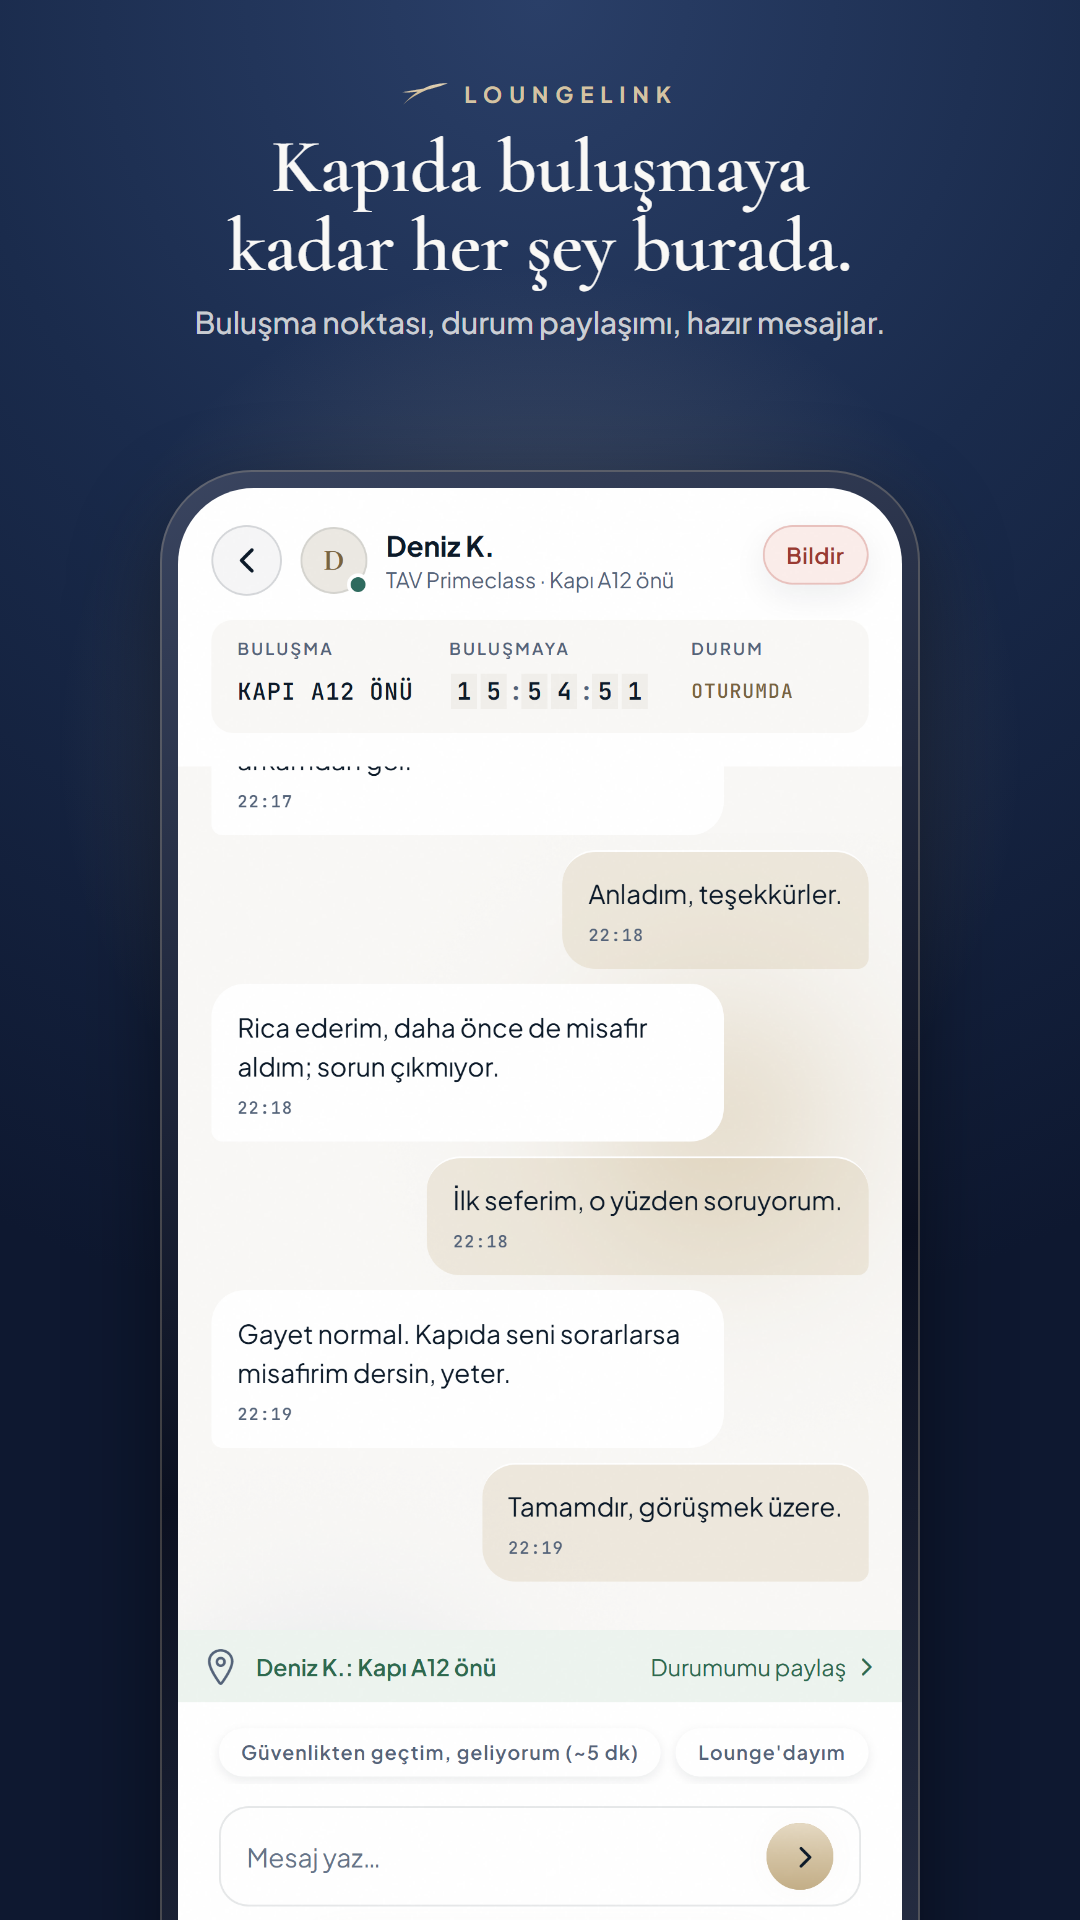
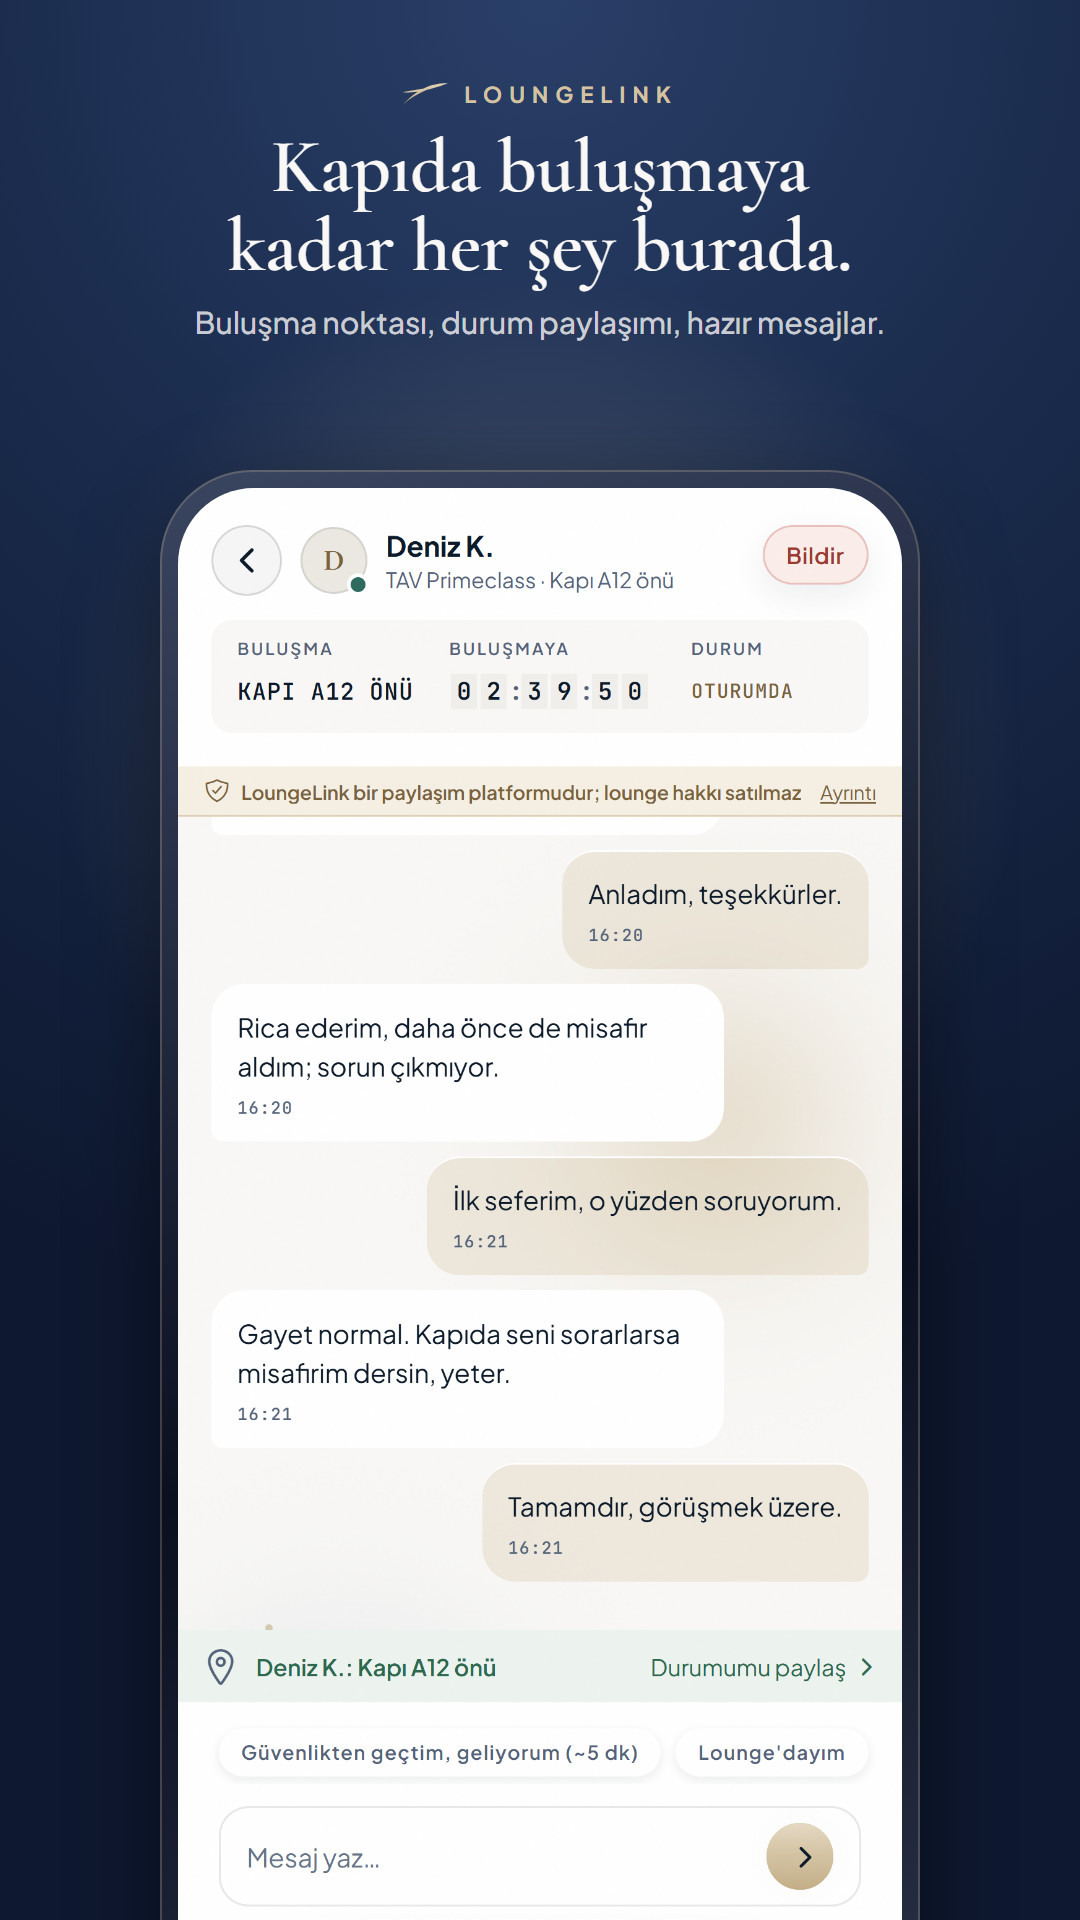
app 1.0.0: 'lounge girisi' yerine 'ilan basvurusu' (SQL 341, i18n TR+EN); sohbetlerde katlanir paylasim seridi; magaza kareleri yeniden

Changed region(s): [[0.1833, 0.3438, 0.7333, 0.4375], [0.7639, 0.4062, 0.825, 0.4375]]

diff --git a/rnapp/src/i18n.js b/rnapp/src/i18n.js
@@ -439,7 +439,7 @@ export const D = {
     // ana sayfa bölgeleri
     // madde 1 — kredi paketleri
     walletPacksIntro: "Paketler üyeliğin yerine geçmez; plan kredin bittiğinde tek seferlik ek haktır.",
-    walletPackCredits: "{n} lounge isteği",
+    walletPackCredits: "{n} ilan başvurusu",
     walletPerCredit: "kredi başına {n} ₺",
     walletSubHint: "Düzenli seyahat ediyorsan {plan} planı aylık {fiyat} ₺ ile {kredi} kredi veriyor — kredi başına {birim} ₺. Paketler bilerek daha pahalı: tek seferlik ihtiyaç içindir.",
     // madde 14
@@ -1686,8 +1686,15 @@ export const D = {
     confirmDone: "Tamamlandığını Onayla ✓",
     sessDone: "Oturum tamamlandı",
     submitRating: "Puanı Gönder →",
-    // 24 Ekim (Gökberk) — emir kipi yerine davet: aynı üç kural, daha sıcak bir dille.
-    safetyBar: "Burada misafirlik paylaşılır, satılmaz · Ödeme konuşulmaz · Salon ve havayolu kuralları her zaman geçerli",
+    // 24 Ekim (Gökberk) — Paylaşım şeridi: kapalıyken tek satır, dokununca üç madde (ortak.js PaylasimSeridi).
+    paylasimKisa: "LoungeLink bir paylaşım platformudur; lounge hakkı satılmaz",
+    paylasimDetay: "Ayrıntı",
+    paylasimKapat: "Kapat",
+    paylasimMaddeler: [
+      "LoungeLink, misafirlik hakkının paylaşıldığı bir platformdur; lounge erişimi burada satılmaz, satın alınmaz.",
+      "Lounge hakkı satışı ya da platform dışı ödeme teklifi gelirse kabul etme; Bildir'e dokunman yeterli.",
+      "Salonun ve havayolunun kuralları her zaman geçerlidir; kapıdaki son söz salonundur.",
+    ],
     verifyPhone: "Telefonu Doğrula",
     // 18 Ekim — telefon doğrulama sayfası (src/telefon.js · SQL 335)
     tvKayitEtiket: "HESABIN HAZIR · SON ADIM",
@@ -2195,9 +2202,10 @@ export const D = {
     chatNudgeDismiss: "Kapat",
     ledPlanExpire: "Kullanılmayan aylık plan kredisi",
     planNoRollover: "Aylık plan kredisi bir sonraki aya devretmez. Satın aldığın paket kredisi ve ağırlayarak kazandığın kredi süresizdir.",
-    planVisitsMonth: "Ayda {n} lounge girişi",
-    planPerVisit: "giriş başına ≈ {p}",
-    planFreeCredit: "Kayıtta 1 kredi: ilk lounge girişin bizden",
+    // 25 Ekim (Gökberk) — "lounge girişi" giriş hakkı satılıyor gibi okunuyordu; kredi bir ilana BAŞVURMA hakkıdır.
+    planVisitsMonth: "Ayda {n} ilan başvurusu",
+    planPerVisit: "başvuru başına ≈ {p}",
+    planFreeCredit: "Kayıtta 1 kredi: ilk ilan başvurun bizden",
     // 15 Ekim (SQL 332) — mağaza ödemesi (RevenueCat)
     odemeSatinAl: "Satın al",
     odemeIsleniyor: "Ödemen alındı, hesabına işleniyor…",
@@ -2974,7 +2982,7 @@ export const D = {
     connAwaiting: "Waiting for a reply.",
     connDeclinedNote: "This request was declined.",
     walletPacksIntro: "Packs don't replace a membership; they're a one-off top-up when your plan credits run out.",
-    walletPackCredits: "{n} lounge request(s)",
+    walletPackCredits: "{n} listing request(s)",
     walletPerCredit: "{n} TRY per credit",
     walletSubHint: "If you travel often, the {plan} plan gives {kredi} credits for {fiyat} TRY a month — {birim} TRY per credit. Packs are deliberately pricier: they're for one-off needs.",
     editAirportLocked: "The airport can't be changed — open a new listing for a different airport.",
@@ -3987,7 +3995,14 @@ export const D = {
     confirmDone: "Confirm Completed ✓",
     sessDone: "Session completed",
     submitRating: "Submit Rating →",
-    safetyBar: "Guest passes are shared here, never sold · No payments · Lounge and airline rules always apply",
+    paylasimKisa: "LoungeLink is a sharing platform; lounge access is never sold",
+    paylasimDetay: "Details",
+    paylasimKapat: "Close",
+    paylasimMaddeler: [
+      "LoungeLink is a platform for sharing guest allowances; lounge access is never sold or bought here.",
+      "If someone offers to sell access or asks for payment outside the app, decline and tap Report.",
+      "Lounge and airline rules always apply; the lounge has the final say at the door.",
+    ],
     verifyPhone: "Verify Phone",
     tvKayitEtiket: "ACCOUNT READY · LAST STEP",
     tvTelEtiket: "PHONE",
@@ -4427,9 +4442,9 @@ export const D = {
     chatNudgeDismiss: "Dismiss",
     ledPlanExpire: "Unused monthly plan credits",
     planNoRollover: "Monthly plan credits don't roll over to the next month. Credits you buy in packs or earn by hosting never expire.",
-    planVisitsMonth: "{n} lounge visits a month",
-    planPerVisit: "≈ {p} per visit",
-    planFreeCredit: "1 credit on sign-up: your first lounge visit is on us",
+    planVisitsMonth: "{n} listing requests a month",
+    planPerVisit: "≈ {p} per request",
+    planFreeCredit: "1 credit on sign-up: your first listing request is on us",
     odemeSatinAl: "Buy",
     odemeIsleniyor: "Payment received, adding it to your account…",
     odemeKrediYuklendi: "{n} credits added to your wallet.",

diff --git a/rnapp/src/ekranlar_yalin.js b/rnapp/src/ekranlar_yalin.js
@@ -40,7 +40,7 @@ import AsyncStorage from "@react-native-async-storage/async-storage";
 import { AppState, ActivityIndicator, BackHandler, FlatList, Image, Keyboard, Linking, Modal, Platform, ScrollView, StyleSheet, Text, TextInput, TouchableOpacity, View } from "react-native";
 import { BinisKartiPanel } from "./BinisKarti";
 import { kuyrugaAkit, kuyrugaBak, kuyrukDinle, kuyruguYenidenDene, mesajKuyruga, onbellegeYaz, onbellektenOku } from "./cevrimdisi";
-import { ACCESS_SOURCES, erisimKaynaklari, erisimEtiketi, AMENITY_ICONS, AMENITY_TR, AirportPicker, Load, PROF_KEYS, Pill, REPORT_TYPES, ReqStateBadge, reqDurumOgesi, ustIsik, S, Sayac, TR_DAYS, TR_MONTHS, VenuePrices, _DTP, abbrevName, dateOk, geriSayim, getProfileCompletion, intentLabel, isoOf, zamanKisa, useAkisGoruldu, yeniMi, LoadFailPage } from "./ortak";
+import { ACCESS_SOURCES, erisimKaynaklari, erisimEtiketi, AMENITY_ICONS, AMENITY_TR, AirportPicker, Load, PROF_KEYS, Pill, REPORT_TYPES, ReqStateBadge, reqDurumOgesi, ustIsik, S, Sayac, TR_DAYS, TR_MONTHS, VenuePrices, _DTP, abbrevName, dateOk, geriSayim, getProfileCompletion, intentLabel, isoOf, zamanKisa, useAkisGoruldu, yeniMi, LoadFailPage, PaylasimSeridi } from "./ortak";
 import { Ikon, IkonMetin, BilgiRozeti } from "./ikon";
 import { KalkisHalkasi, TakimyildizPuan, GeceKarti } from "./hareket";
 import { VitrinKarti, MiniErken, MiniFiyat, IndirimBandi, bantMetni } from "./odul_magaza";
@@ -1579,11 +1579,7 @@ export function Chat({ t, session, request, otherName, onBack, onSafety, onRefer
       {/* 24 Ekim (Gökberk) — LOUNGE SOHBETİNDE SATIŞ/ÖDEME UYARISI YOKTU. `safetyBar` yalnız Tanış
           sohbetindeydi (CompanionChat); asıl risk — "hakkını sat / dışarıdan öde" teklifi — bu sohbette.
           Aynı şerit, aynı metin (TR+EN hazır). Klavye açıkken yer kaplamasın diye gizlenir. */}
-      {!klavye && (
-        <View accessibilityRole="text" style={{ backgroundColor: C.goldTint, paddingVertical: ARA[6], paddingHorizontal: ARA[14] }}>
-          <Text style={{ color: C.goldInk, fontSize: FS.xs, textAlign: "center" }}>{t.safetyBar}</Text>
-        </View>
-      )}
+      {!klavye && <PaylasimSeridi t={t} />}
       {/* Mesajlar — tasarım: ilk balon 150pt'te (132 + 18) */}
       <ScrollView style={{ flex: 1 }} contentContainerStyle={{ padding: ARA[18] }}
         /* ══════════════════════════════════════════════════════════

diff --git a/rnapp/src/ekranlar_ana.js b/rnapp/src/ekranlar_ana.js
@@ -44,7 +44,7 @@ import * as Clipboard from "expo-clipboard";
 import React, { useCallback, useEffect, useRef, useState, useMemo} from "react";
 import { ActivityIndicator, BackHandler, Image, Linking, Modal, Platform, ScrollView, Share, StyleSheet, Text, TextInput, TouchableOpacity, View } from "react-native";
 import { Amenities, BaglantiIstekleri, Chat, DateInput, HaberVer, LiveStatus, Picker, Plans, ProfileCompletionWidget, ReportUser, RequestsPanel, VerifyPhone, profOpts, timeOk } from "./ekranlar_yalin";
-import { ucusNo, ustIsik, ACCESS_SOURCES, erisimKaynaklari, erisimEtiketi, AirportPicker, CarrierChip, FieldReportPrompt, LANG_OPTS, LegalDoc, Load, PURPOSES, Pill, PromiseBox, RefCodeEntry, ReqStateBadge, S, SECTOR_OPTS, Sayac, TrustRing, VenuePrices, _DTP, abbrevName, dateOk, geriSayim, getProfileCompletion, greeting, intentLabel, pickAndUploadPhoto, useAkisGoruldu, yeniMi, LoadFailPage } from "./ortak";
+import { ucusNo, ustIsik, ACCESS_SOURCES, erisimKaynaklari, erisimEtiketi, AirportPicker, CarrierChip, FieldReportPrompt, LANG_OPTS, LegalDoc, Load, PURPOSES, Pill, PromiseBox, RefCodeEntry, ReqStateBadge, S, SECTOR_OPTS, Sayac, TrustRing, VenuePrices, _DTP, abbrevName, dateOk, geriSayim, getProfileCompletion, greeting, intentLabel, pickAndUploadPhoto, useAkisGoruldu, yeniMi, LoadFailPage, PaylasimSeridi } from "./ortak";
 import { Ikon, IkonMetin, BilgiRozeti } from "./ikon";
 import { yerelGun } from "./zaman";
 
@@ -3636,9 +3636,7 @@ export function CompanionChat({ t, session, channelId, otherName, onBack, onOpen
           </View>
         </TouchableOpacity>
       )}
-      <View style={{ backgroundColor: C.goldTint, paddingVertical: ARA[6], paddingHorizontal: ARA[14] }}>
-        <Text style={{ color: C.goldInk, fontSize: FS.xs, textAlign: "center" }}>{t.safetyBar}</Text>
-      </View>
+      <PaylasimSeridi t={t} />
       {/* 16 Ekim (SQL 334) — LOUNGE YÖNLENDİRMESİ. Sohbette birlikte lounge'a girme konuşulursa
           resmi yol hatırlatılır: misafire iade güvencesi, host'a kredi + puan + Sık Uçan hediyesi.
           Konuşmayı ENGELLEMEZ; kapatılabilir ve kanal başına bir kez kapatılınca bir daha çıkmaz. */}

diff --git a/rnapp/src/ortak.js b/rnapp/src/ortak.js
@@ -1483,3 +1483,33 @@ export function YasOnayi({ t }) {
     </View>
   );
 }
+
+// 24 Ekim (Gökberk) — PAYLAŞIM ŞERİDİ (lounge sohbeti + Tanış sohbeti).
+// Kural metni uzun; sohbetin üstünde kalıcı yer kaplamamalı. Kapalıyken TEK satır (kalkan + kısa cümle +
+// "Ayrıntı"); dokununca üç madde açılır. Akış içinde durur (mesajların üstüne binmez); çağıran klavye
+// açıkken hiç çizmez. Dokunma alanı hitSlop ile 44 pt'ye tamamlanır, görünür yükseklik ~30 pt.
+export function PaylasimSeridi({ t }) {
+  const [acik, setAcik] = useState(false);
+  return (
+    <View style={{ backgroundColor: C.goldTint, borderBottomWidth: 1, borderColor: C.goldLine || C.line }}>
+      <TouchableOpacity accessibilityRole="button" accessibilityState={{ expanded: acik }}
+        accessibilityLabel={t.paylasimKisa + ". " + (acik ? t.paylasimKapat : t.paylasimDetay)}
+        onPress={() => setAcik(a => !a)} activeOpacity={0.75} hitSlop={{ top: 8, bottom: 8, left: 0, right: 0 }}
+        style={{ flexDirection: "row", alignItems: "center", paddingVertical: ARA[6], paddingHorizontal: ARA[14] }}>
+        <Ikon ad="guvenlik" boy={14} renk={C.goldInk} stil={{ marginRight: ARA[6] }} />
+        <Text numberOfLines={1} style={{ flex: 1, minWidth: 0, color: C.goldInk, fontSize: FS.xs, fontWeight: "600" }}>{t.paylasimKisa}</Text>
+        <Text style={{ color: C.goldInk, fontSize: FS.xs, marginLeft: ARA[8], textDecorationLine: "underline" }}>{acik ? t.paylasimKapat : t.paylasimDetay}</Text>
+      </TouchableOpacity>
+      {acik && (
+        <View accessibilityLiveRegion="polite" style={{ paddingHorizontal: ARA[14], paddingBottom: ARA[10] }}>
+          {(t.paylasimMaddeler || []).map((m, i) => (
+            <View key={i} style={{ flexDirection: "row", marginTop: i ? ARA[4] : 0 }}>
+              <Text style={{ color: C.goldInk, fontSize: FS.xs, lineHeight: 17, marginRight: ARA[6] }}>•</Text>
+              <Text style={{ flex: 1, minWidth: 0, color: C.goldInk, fontSize: FS.xs, lineHeight: 17 }}>{m}</Text>
+            </View>
+          ))}
+        </View>
+      )}
+    </View>
+  );
+}

diff --git a/rnapp/magaza/uret.py b/rnapp/magaza/uret.py
@@ -41,7 +41,7 @@ KARELER = [
     ("06", "88_oturum_puanla","Güven her buluşmayla<br>büyür.",          "Karşılıklı puan, bildir ve engelle, kadın güvenlik modu."),
     # 20 Ekim (6.9.2) — Jetset, plana göre puan, ödül indirimi ve erken erişim görünür olsun.
     ("07", "22c_market_jetset","Her buluşma<br>puan kazandırır.",       "LoungePuan'ı seyahatte işine yarayan ödüllere çevir."),
-    ("08", "29b_plan_jetset", "Sık Uçan ve<br>Jetset.",                  "Aylık lounge girişi, ödül indirimi ve yeni ödüllere erken erişim."),
+    ("08", "29b_plan_jetset", "Sık Uçan ve<br>Jetset.",                  "Her ay ilan başvurusu, ödül indirimi ve yeni ödüllere erken erişim."),
 ]
 
 

diff --git a/DEVIR/2026-10-20_odul-erken-erisim-indirim-690.md b/DEVIR/2026-10-20_odul-erken-erisim-indirim-690.md
@@ -188,3 +188,15 @@ Gökberk: SQL 330–338 Supabase'de koşuldu, hepsi true. Bireysel hesap kesin.
   (yeni metin: "Burada misafirlik paylaşılır, satılmaz · Ödeme konuşulmaz · Salon ve havayolu kuralları her zaman geçerli"),
   Kurucu Host metni, co.loungelink.app (iOS). google-services.json yok → Android push bu build'de çalışmaz (bilinen).
 - Telefonda denenecek: konum izni penceresi ve 3 hâl, sohbet şeridi, Kurucu Host penceresi (misafir hesabında Profil'de).
+
+## 25 Ekim — "lounge girişi" → "ilan başvurusu" · paylaşım şeridi · inceleme görselleri
+- Gökberk: "Ayda 7 lounge girişi" giriş hakkı satılıyormuş gibi okunuyor. Her yerde "ilan başvurusu":
+  app i18n (planVisitsMonth, planPerVisit, planFreeCredit, walletPackCredits; TR+EN), site PlanKartlari, BO kredi paketleri notu,
+  **SQL 341** (plan_catalog.perks/perks_en + kredi_paketleri 'tek' açıklaması; yerelde 4/4). Mağaza rehberi 6d IAP/abonelik açıklamaları.
+- Sohbet şeridi: `ortak.js PaylasimSeridi` — kapalıyken tek satır ("LoungeLink bir paylaşım platformudur; lounge hakkı satılmaz" + Ayrıntı),
+  dokununca 3 madde; klavye açıkken gizli; lounge sohbeti + Tanış sohbeti. safetyBar anahtarı kalktı. (Önizleme gönderildi; onay bekliyor.)
+- App Store inceleme görselleri 1290×2796: _gorseller/appstore_inceleme (kredi · Sık Uçan · Jetset). Mağaza kareleri yeniden üretildi
+  (08 alt yazı "Her ay ilan başvurusu…"); eskiler _arsiv/magaza_cikti_1.0_onceki.
+- Sahne: odeme=sahte (yalnız web), "ust" adımı, boy= parametresi; 06c, 21r, 29r, 29s.
+- Sürümler: site 0.72.9, BO 1.101.3, app 1.0.0 (299) — yeni APK alınmadı.
+- Gökberk'ten: SQL 341'i koş; App Store'da açıklamaları yeni metinle gir (rehber 6d).
